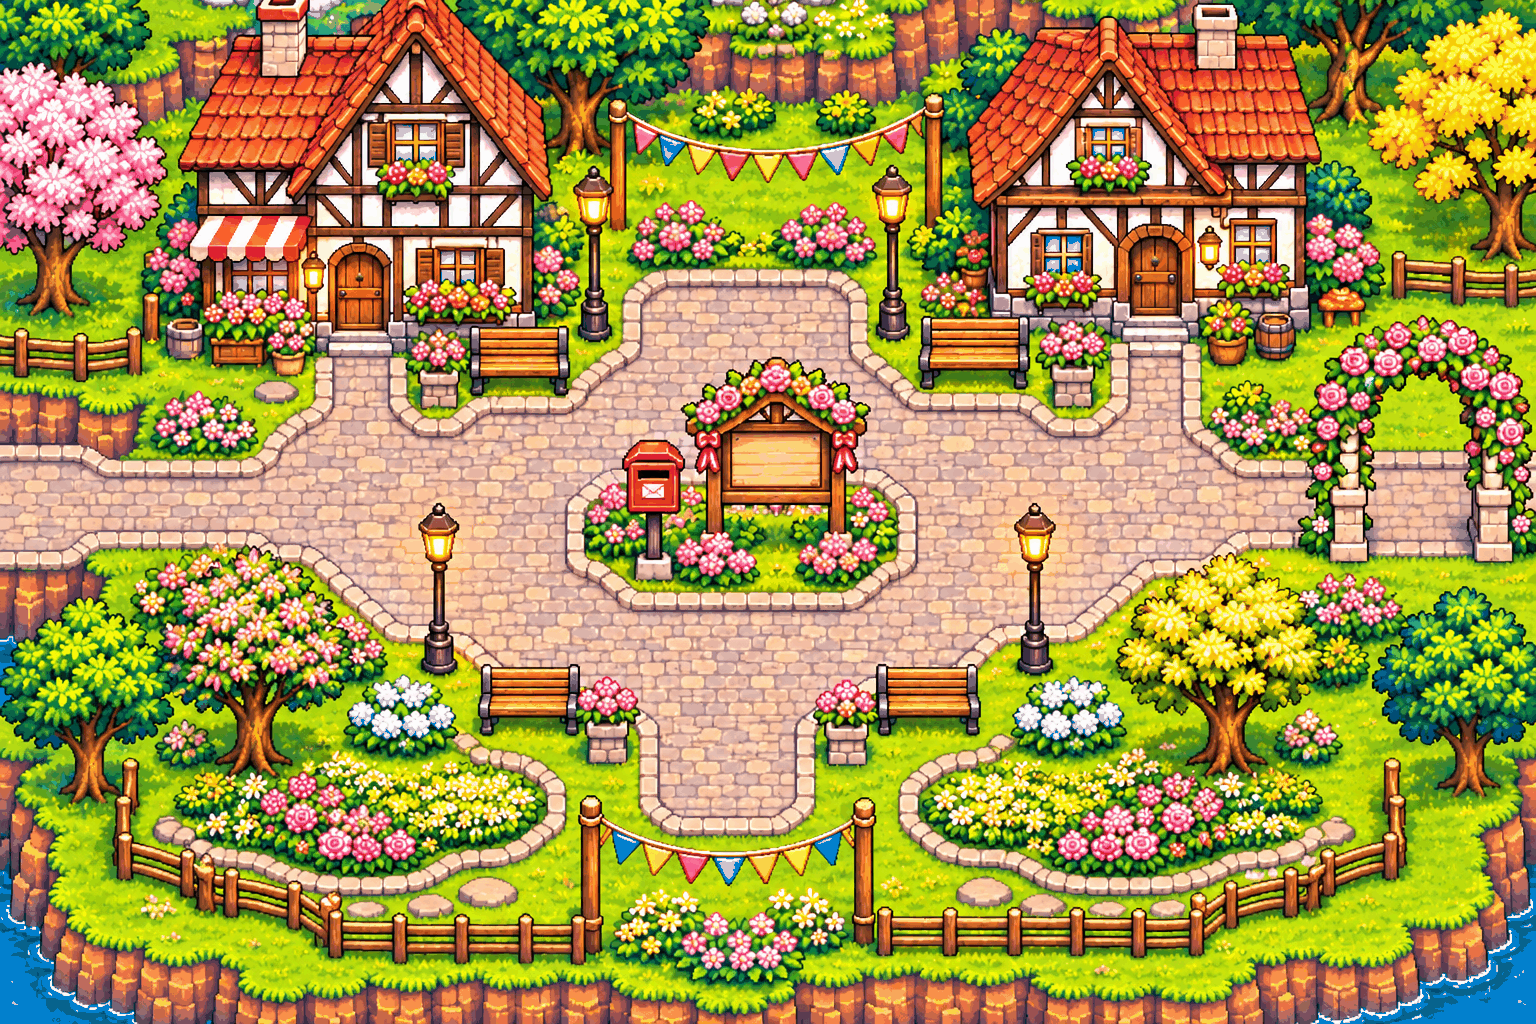
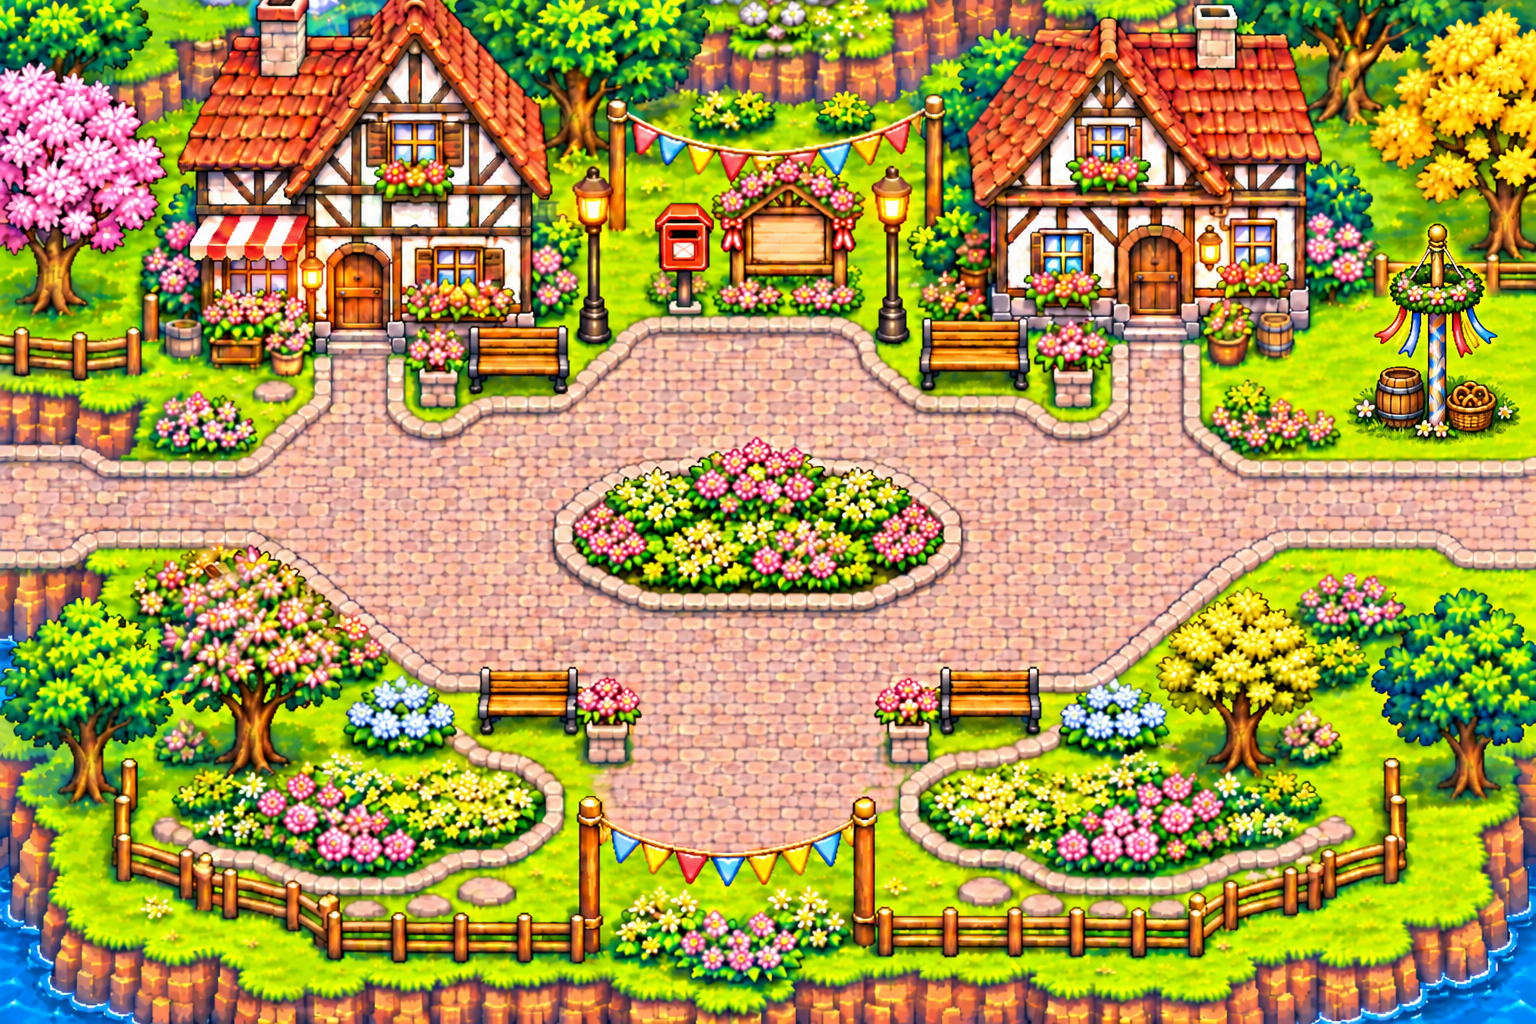
feat(jogo): vila com a NOVA PRAÇA e a máscara caminhável do JOs (item 46)
- Arte nova (vila-nova-praca-2026-11-20) -> vila.png/vila.webp (antigas em
  assets-src/*-antiga, gitignored). Calçamento em cruz contornando o canteiro
  oval central; postes fora do calçamento.
- Máscara do JOs (vila-piso-caminhavel) usada TAL COMO ESTÁ -> vila.walk.png
  (sem regerar/erodir). Teste pela SOLA do pé (item 44): só o pé conta.
- world.ts: spawn no braço esquerdo, NPC (recado) em frente ao mural, gate no
  braço direito. Removido vila.colisao.json (não usado).
- Provas: m46-entrada, m46-cruz, m46-grama (para na borda, não pisa na grama),
  m46-saida-dir/baixo.

tsc 0, eslint limpo. Nada em produção.

diff --git a/src/lib/game/world.ts b/src/lib/game/world.ts
@@ -85,14 +85,15 @@ export const PHASES: Record<LevelId, PhaseConfig> = {
     map: "/game/mapas/vila.webp",
     w: 1536,
     h: 1024,
-    // Vila: anda ESTRITAMENTE no calçamento (máscara); postes/bancos/caixa/canteiros
-    // sobre a pedra viram obstáculos sólidos (buracos na máscara). SEM overlays de
-    // profundidade — o boneco nunca fica atrás de nada (decisão JOs 41/42).
+    // Vila NOVA PRAÇA (item 46): arte + máscara caminhável desenhadas pelo JOs
+    // (calçamento em cruz contornando o canteiro oval central; postes fora do
+    // calçamento). A máscara é usada TAL COMO ESTÁ. Teste pela SOLA do pé (item 44).
+    // Saídas nas pontas esquerda, direita e embaixo. SEM overlays/colisão por retângulo.
     walkMask: "/game/mapas/vila.walk.png",
-    spawn: { x: 130, y: 470, facing: "right" },
+    spawn: { x: 95, y: 505, facing: "right" }, // entrada pelo braço ESQUERDO
     anchors: {
-      npc: { x: 695, y: 610 }, // calçada em frente à caixa de correio / quadro
-      gate: { x: 1380, y: 380 }, // portão de flores à direita (saída)
+      npc: { x: 430, y: 460 }, // calçamento em frente ao mural/caixa de correio (topo-centro)
+      gate: { x: 1480, y: 519 }, // saída pelo braço DIREITO → volta ao mapa
     },
   },
   bosque: {
